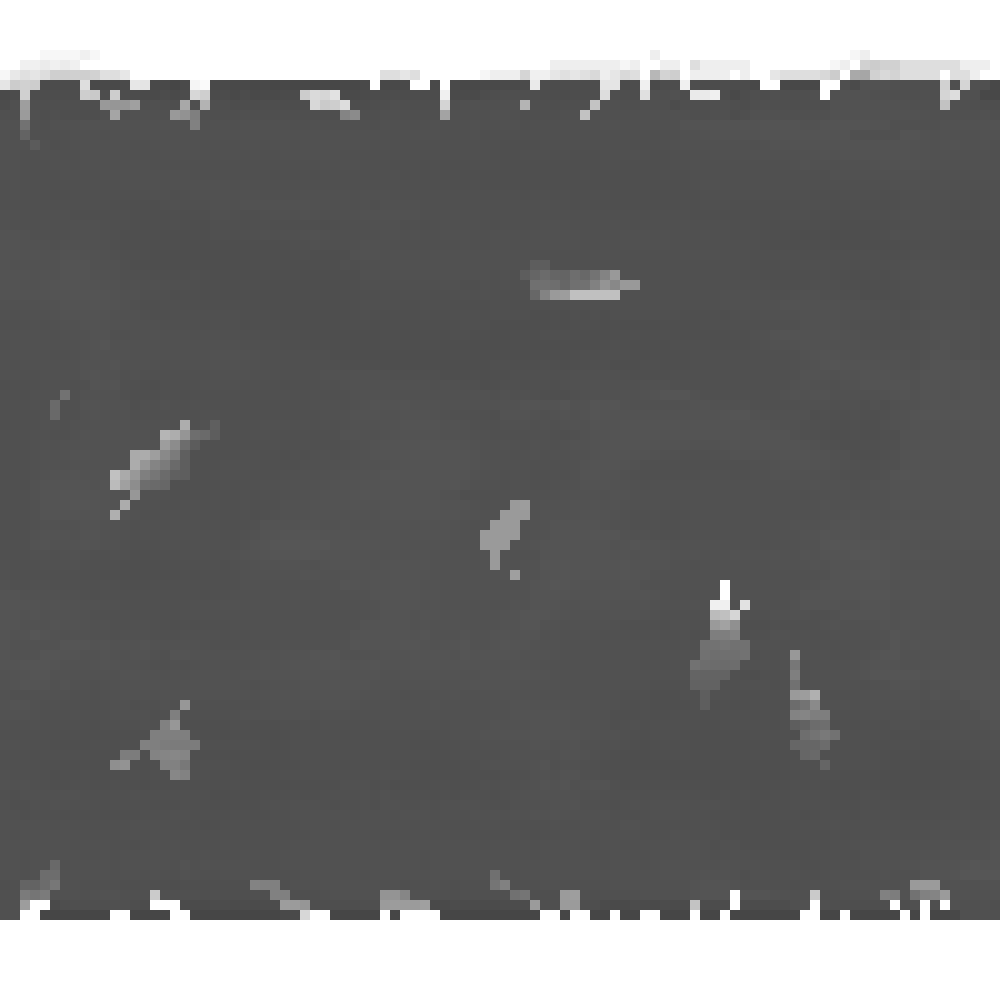
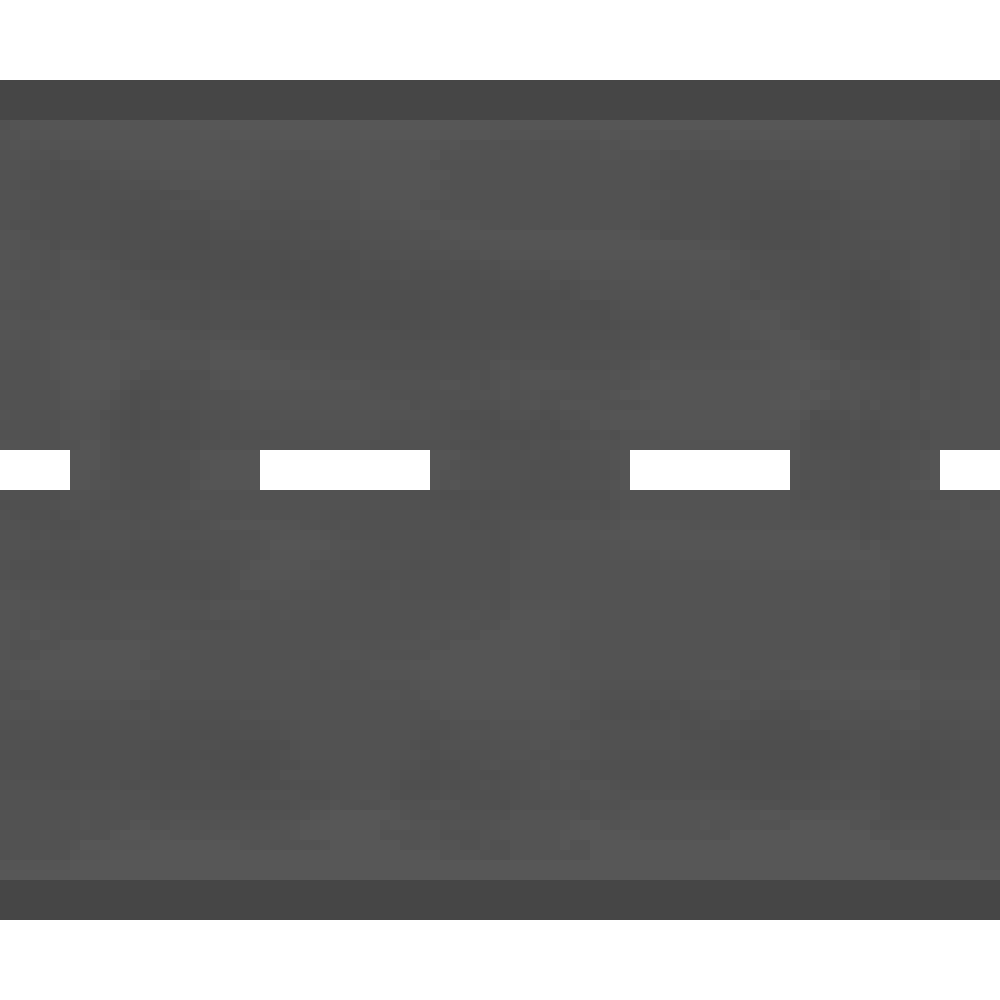
Add files via upload

diff --git a/game.js b/game.js
@@ -145,7 +145,7 @@ function undo(){if(!pending||state.finished||remaining('undo')<=0)return;state.a
 function transform(flip=false){const action=flip?'flip':'rotate';if(state.finished||!canTransform(action))return;const old=orientation;orientation=normalize(orientation.map(([x,y])=>flip?[-x,y]:[-y,x]));
  if(pending){const [x,y]=pending.anchor;if(!legal(cellsAt(x,y))){orientation=old;message('That rotation overlaps occupied land or leaves the map. Move the piece first.',true);return;}place(x,y);}
  if(!state.turnActions[action]){state.actions[action]++;state.turnActions[action]=true;}save();renderShape();renderBoard();updateButtons();tone(350);}
-function renderBoard(){const board=$('board');board.innerHTML='';let preview=hover&&!pending&&!state.finished?cellsAt(...hover):[];const valid=preview.length&&legal(preview);for(let y=0;y<SIZE;y++)for(let x=0;x<SIZE;x++){const cell=document.createElement('button');cell.type='button';cell.className='cell';cell.setAttribute('role','gridcell');cell.dataset.x=x;cell.dataset.y=y;let t=state.board[y][x];const p=pending?.cells.some(([a,b])=>a===x&&b===y);if(p){t=state.card.type;cell.classList.add(state.mode==='expert'?'neutral-placement':'pending');if(pending.penalty&&state.mode!=='expert')cell.classList.add('costly');}if(preview.some(([a,b])=>a===x&&b===y)){cell.classList.add(state.mode==='expert'?'neutral-placement':'preview');if(!valid)cell.classList.add('invalid');else if(state.mode!=='expert'&&rulePenalty(preview))cell.classList.add('costly');if(!t)t=state.card.type;}
+function renderBoard(){const board=$('board');board.innerHTML='';let preview=hover&&!pending&&!state.finished?cellsAt(...hover):[];const valid=preview.length&&legal(preview);for(let y=0;y<SIZE;y++)for(let x=0;x<SIZE;x++){const cell=document.createElement('button');cell.type='button';cell.className='cell';cell.setAttribute('role','gridcell');cell.dataset.x=x;cell.dataset.y=y;let t=state.board[y][x];const p=pending?.cells.some(([a,b])=>a===x&&b===y);if(p){t=state.card.type;cell.classList.add(state.mode==='expert'?'expert-placement':'pending');if(pending.penalty&&state.mode!=='expert')cell.classList.add('costly');}if(preview.some(([a,b])=>a===x&&b===y)){cell.classList.add(state.mode==='expert'?'expert-placement':'preview');if(!valid)cell.classList.add('invalid');else if(state.mode!=='expert'&&rulePenalty(preview))cell.classList.add('costly');if(!t)t=state.card.type;}
  cell.setAttribute('aria-label',`${String.fromCharCode(65+x)}${y+1}: ${t?LABEL[t]:'empty'}`);if(t){const img=document.createElement('img');img.src=asset(t);img.alt='';cell.append(img);}board.append(cell);}}
 function renderShape(){const w=Math.max(...orientation.map(c=>c[0]))+1,h=Math.max(...orientation.map(c=>c[1]))+1;$('shape').style.gridTemplateColumns=`repeat(${w},17px)`;$('shape').innerHTML='';for(let y=0;y<h;y++)for(let x=0;x<w;x++){const i=document.createElement('i');if(orientation.some(([a,b])=>a===x&&b===y)){i.className='filled';i.innerHTML=`<img src="${asset(state.card.type)}" alt="">`;}$('shape').append(i);}}
 function updateButtons(){
@@ -164,7 +164,7 @@ function render(){const t=Math.min(state.turn,TOTAL-1),tier=tierAt(t),m=metrics(
 function modal(html){$('dialog').dataset.kind='';$('dialogContent').innerHTML=html;if(!$('dialog').open)$('dialog').showModal();}
 function giveUp(){if(state.finished)return;document.body.classList.add('giveup-open');modal(`<p class="eyebrow">GIVE UP</p><h2>Are you sure?</h2><p>Giving up ends this game. Only confirmed placements count toward your score.</p><div class="giveup-actions"><button class="primary danger" id="confirmGiveUp">Yes, give up</button><button class="primary cancel" id="cancelGiveUp">No, cancel</button></div>`);$('confirmGiveUp').onclick=()=>{pending=null;hover=null;state.finished=true;state.gaveUp=true;ended=true;document.body.classList.remove('giveup-open');save();render();results();};$('cancelGiveUp').onclick=()=>{$('dialog').close();document.body.classList.remove('giveup-open');};}
 $('giveUp').onclick=giveUp;
-function help(){modal(`<h2>How to play</h2><p>Build your town on a 10 × 10 grid over 16 rounds. Each round brings a random terrain card whose difficulty and scoring conditions change as the game progresses. Every new game gives you a different starting map.</p><p>There are four main terrain types: village, farmland, forest and water. The map also contains fixed mountains and a road that cannot be moved. Their positions change between games; the number of mountains depends on the selected mode. Fit your terrain pieces into the empty squares and aim for the highest score.</p><h3>Cards</h3><p>Rounds 1–4 bring basic cards, with one card of each terrain type and small pieces. The first card only asks you to place: it gives no points or penalties. The other basic cards offer a fixed +5 bonus per qualifying square and a random penalty of −2, −3 or −4.</p><p>Rounds 5–12 bring medium cards. More varied shapes fill the map as you develop your strategy. Their bonus is +3–5 per qualifying square and their placement penalty is −4–6. The final 4 rounds bring hard cards, with larger or more complex pieces, a +4–6 bonus per qualifying square and a −8–10 penalty. Placement conditions can also become more demanding. Use these final moves to complete your strategy and your town.</p><p>After the first card, each square in a normal terrain piece earns 1 point only if the placement breaks no card condition. If a condition is broken, the piece earns no points for its square count and the printed penalty is deducted once. Any separately earned field bonus still applies. Each qualifying new square earns its bonus once, even if it touches several suitable neighbors. Read both the placement conditions and the bonus conditions on each card.</p><h3>Town duties</h3><p>Each game selects three duties with different themes from a pool of 15. Each duty asks you to reach a target number of qualifying squares. Higher difficulties bring larger targets and higher rewards. Completing all three duties earns an extra 20 points.</p><h3>Controls</h3><p>Preview your terrain piece before confirming it. Rotate it with R or mirror it with F to fit the empty spaces on the map. On a phone, tap a square to see the placement and use the on-screen buttons. Before confirming, you can click another square to move the piece or use Undo (S) to clear the pending placement. When you are satisfied, confirm to finish the round and draw the next card. Confirmed placements cannot be moved or undone.</p><p>Breaking a card condition costs points but never blocks placement. Occupied squares and positions outside the map cannot be used. In Expert mode, green and orange placement hints are hidden; red still marks a piece that does not fit.</p><p>You can pass an unwanted card. The number of passes and their point cost depend on the mode. If you want to end the game, use Give up and confirm your choice. Your final score includes only confirmed placements.</p><h3>Mode rules</h3><p>Relax: passes are free and unlimited. Rotation, flip and undo are unlimited.</p><p>Standard: 3 passes, each costing 5 points. Rotation and flip can each be used on 5 rounds. Undo can be used 6 times in total.</p><p>Expert: 1 pass costing 8 points. Rotation and flip can each be used on 3 rounds. Undo can be used 4 times in total.</p><p>Rotation and flip allowances count rounds, not clicks. Once you use an action in a round, you can repeat that action freely for the rest of that round. In Standard and Expert, every undo uses one allowance. Undo does not restore rotation or flip allowances. The counters beside the controls show your remaining allowances.</p><p>Only squares that share an edge count as neighbors. Diagonal contact gives no adjacency bonus and does not connect terrain groups.</p><p>There are eastereggs in the game.</p><button class="primary" onclick="document.getElementById('dialog').close()">Let’s make a map →</button>`);}
+function help(){modal(`<h2>How to play</h2><p>Build your town on a 10 × 10 grid over 16 rounds. Each round brings a random terrain card whose difficulty and scoring conditions change as the game progresses. Every new game gives you a different starting map.</p><p>There are four main terrain types: village, farmland, forest and water. The map also contains fixed mountains and a road that cannot be moved. Their positions change between games; the number of mountains depends on the selected mode. Fit your terrain pieces into the empty squares and aim for the highest score.</p><h3>Cards</h3><p>Rounds 1–4 bring basic cards, with one card of each terrain type and small pieces. The first card only asks you to place: it gives no points or penalties. The other basic cards offer a fixed +5 bonus per qualifying square and a random penalty of −2, −3 or −4.</p><p>Rounds 5–12 bring medium cards. More varied shapes fill the map as you develop your strategy. Their bonus is +3–5 per qualifying square and their placement penalty is −4–6. The final 4 rounds bring hard cards, with larger or more complex pieces, a +4–6 bonus per qualifying square and a −8–10 penalty. Placement conditions can also become more demanding. Use these final moves to complete your strategy and your town.</p><p>After the first card, each square in a normal terrain piece earns 1 point only if the placement breaks no card condition. If a condition is broken, the piece earns no points for its square count and the printed penalty is deducted once. Any separately earned field bonus still applies. Each qualifying new square earns its bonus once, even if it touches several suitable neighbors. Read both the placement conditions and the bonus conditions on each card.</p><h3>Town duties</h3><p>Each game selects three duties with different themes from a pool of 15. Each duty asks you to reach a target number of qualifying squares. Higher difficulties bring larger targets and higher rewards. Completing all three duties earns an extra 20 points.</p><h3>Controls</h3><p>Preview your terrain piece before confirming it. Rotate it with R or mirror it with F to fit the empty spaces on the map. On a phone, tap a square to see the placement and use the on-screen buttons. Before confirming, you can click another square to move the piece or use Undo (S) to clear the pending placement. When you are satisfied, confirm to finish the round and draw the next card. Confirmed placements cannot be moved or undone.</p><p>Breaking a card condition costs points but never blocks placement. Occupied squares and positions outside the map cannot be used. In Expert mode, green shows that a piece fits and red shows that it cannot be placed. Penalties do not change the preview to orange.</p><p>You can pass an unwanted card. The number of passes and their point cost depend on the mode. If you want to end the game, use Give up and confirm your choice. Your final score includes only confirmed placements.</p><h3>Mode rules</h3><p>Relax: passes are free and unlimited. Rotation, flip and undo are unlimited.</p><p>Standard: 3 passes, each costing 5 points. Rotation and flip can each be used on 5 rounds. Undo can be used 6 times in total.</p><p>Expert: 1 pass costing 8 points. Rotation and flip can each be used on 3 rounds. Undo can be used 4 times in total.</p><p>Rotation and flip allowances count rounds, not clicks. Once you use an action in a round, you can repeat that action freely for the rest of that round. In Standard and Expert, every undo uses one allowance. Undo does not restore rotation or flip allowances. The counters beside the controls show your remaining allowances.</p><p>Only squares that share an edge count as neighbors. Diagonal contact gives no adjacency bonus and does not connect terrain groups.</p><p>There are eastereggs in the game.</p><button class="primary" onclick="document.getElementById('dialog').close()">Let’s make a map →</button>`);}
 function settings(){if($('dialog').open)$('dialog').close();window.TownxelMenus?.show('start');}
 function results(){const m=metrics(),count=m.goals.filter((v,i)=>v>=m.targets[i]).length;modal(`<p class="eyebrow">${state.gaveUp?"EXPEDITION ENDED":"EXPEDITION COMPLETE"} · ${state.mode.toUpperCase()}</p><h2>${count===3?'A valley in harmony.':count?'A world taking shape.':'Every map is a beginning.'}</h2><p>${state.gaveUp?`You ended your expedition after ${state.turn} confirmed rounds.`:"Sixteen discoveries. One little world that is entirely yours."}</p><div class="resultnum">${m.total}<small style="font:14px Arial"> points</small></div><div class="resultgrid"><div>Terrain points<b>${m.terrainPoints}</b></div><div>Field bonuses<b>+${state.bonus}</b></div><div>Completed goals<b>${count}/3 (+${m.goalScore})</b></div><div>All duties bonus<b>+${m.completionBonus}</b></div><div>Penalties (cards + passes)<b>−${state.penalty}</b></div></div><button class="primary" id="resultNew">Explore another valley →</button>`);$('dialog').dataset.kind='results';$('resultNew').onclick=settings;}
 $('board').addEventListener('pointermove',e=>{if(e.pointerType==='touch'||pending||state.finished)return;const c=e.target.closest('.cell');if(!c)return;const x=+c.dataset.x,y=+c.dataset.y;if(hover&&hover[0]===x&&hover[1]===y)return;hover=[x,y];renderBoard();});

diff --git a/i18n.js b/i18n.js
@@ -56,7 +56,7 @@ Object.assign(translations,{
   "Each game selects three duties with different themes from a pool of 15. Each duty asks you to reach a target number of qualifying squares. Higher difficulties bring larger targets and higher rewards. Completing all three duties earns an extra 20 points.": "Her oyunda 15 görevlik havuzdan farklı temalarda üç görev seçilir. Her görev, koşulu sağlayan belirli sayıda kareye ulaşmanı ister. Zorluk arttıkça hedef sayıları ve bu hedeflerin ödülleri de artar. Üç görevin tamamını bitirirsen ek 20 puan kazanırsın.",
   "Controls": "Mekanikler",
   "Preview your terrain piece before confirming it. Rotate it with R or mirror it with F to fit the empty spaces on the map. On a phone, tap a square to see the placement and use the on-screen buttons. Before confirming, you can click another square to move the piece or use Undo (S) to clear the pending placement. When you are satisfied, confirm to finish the round and draw the next card. Confirmed placements cannot be moved or undone.": "Arazi parçanı onaylamadan önce harita üzerindeki yerleşimini görebilirsin. Boşluklara sığdırmak için R ile döndür, F ile aynala. Telefonda yerleşimi görmek için bir kareye dokun ve ekrandaki düğmeleri kullan. Onaylamadan önce başka bir kareye tıklayarak parçayı taşıyabilir veya Geri al (S) ile bekleyen yerleştirmeyi kaldırabilirsin. “Tamam, şimdi oldu” dediğinde yerleşimi onaylayıp sonraki karta geç. Onaylanmış yerleştirmeler taşınamaz veya geri alınamaz.",
-  "Breaking a card condition costs points but never blocks placement. Occupied squares and positions outside the map cannot be used. In Expert mode, green and orange placement hints are hidden; red still marks a piece that does not fit.": "Kart koşulunu ihlal etmek puan kaybettirir ama yerleştirmeyi engellemez. Dolu karelere veya harita dışına yerleştirme yapılamaz. Uzman modunda yeşil ve turuncu yerleştirme ipuçları gösterilmez; sığmayan parça kırmızıyla belirtilir.",
+  "Breaking a card condition costs points but never blocks placement. Occupied squares and positions outside the map cannot be used. In Expert mode, green shows that a piece fits and red shows that it cannot be placed. Penalties do not change the preview to orange.": "Kart koşulunu ihlal etmek puan kaybettirir ama yerleştirmeyi engellemez. Dolu karelere veya harita dışına yerleştirme yapılamaz. Uzman modunda yeşil, parçanın sığdığını; kırmızı, yerleştirilemediğini gösterir. Ceza koşulları önizlemeyi turuncuya çevirmez.",
   "You can pass an unwanted card. The number of passes and their point cost depend on the mode. If you want to end the game, use Give up and confirm your choice. Your final score includes only confirmed placements.": "İstemediğin bir kartı pas geçebilirsin. Pas hakkının sayısı ve puan kesintisi moda göre değişir. Oyunu bitirmek istersen Pes et düğmesini kullanıp seçimini onayla. Son puanına yalnızca onaylanmış yerleştirmeler dâhil edilir.",
   "Mode rules": "Mod kuralları",
   "Relax: passes are free and unlimited. Rotation, flip and undo are unlimited.": "Rahat: Pas ücretsiz ve sınırsızdır. Döndürme, aynalama ve geri alma sınırsızdır.",

diff --git a/index.html b/index.html
@@ -1657,6 +1657,21 @@ header{
 </style>
 <style>.action-allowance{display:block;font-size:10px;line-height:1.4;margin-top:4px}#phaseText{display:inline-block}</style>
 <style>.bonus[hidden]{display:none!important}</style>
+<style>
+/* Black text on the special Mine card. */
+.discovery[data-special="mine"] .card-body,
+.discovery[data-special="mine"] .card-body * { color:#000 !important; }
+</style>
+<style>
+/* Expert shows geometry only: green fits, red does not fit. */
+.cell.expert-placement:after {
+  content:''; position:absolute; inset:0; pointer-events:none;
+  background:#6fa27266; box-shadow:inset 0 0 0 2px #406e49;
+}
+.cell.expert-placement.invalid:after {
+  background:#c95f5866; box-shadow:inset 0 0 0 2px #a94939;
+}
+</style>
 </head>
     <body data-screen="home">
         <!-- Main menu -->

diff --git a/config.js b/config.js
@@ -1,5 +1,6 @@
 /* Change filenames here when you add your own images. Paths start at index.html. */
 window.TOWNXEL_CONFIG = {
+  specialCard: 'assets/spacial_mine_card.png',
   mainMenu: 'assets/main_page.png',
   startMenu: 'assets/start_page.png',
   bugIcon: 'assets/bug.png',
@@ -7,6 +8,7 @@ window.TOWNXEL_CONFIG = {
   menuSprites: { en: 'assets/menu-buttons-en.png', tr: 'assets/menu-buttons-tr.png' },
   logo: 'assets/townxel.png',
   tiles: {
+    mine: 'assets/mine.png',
     forest: 'assets/forest.png',
     farm: 'assets/farm.png',
     village: 'assets/village.png',
